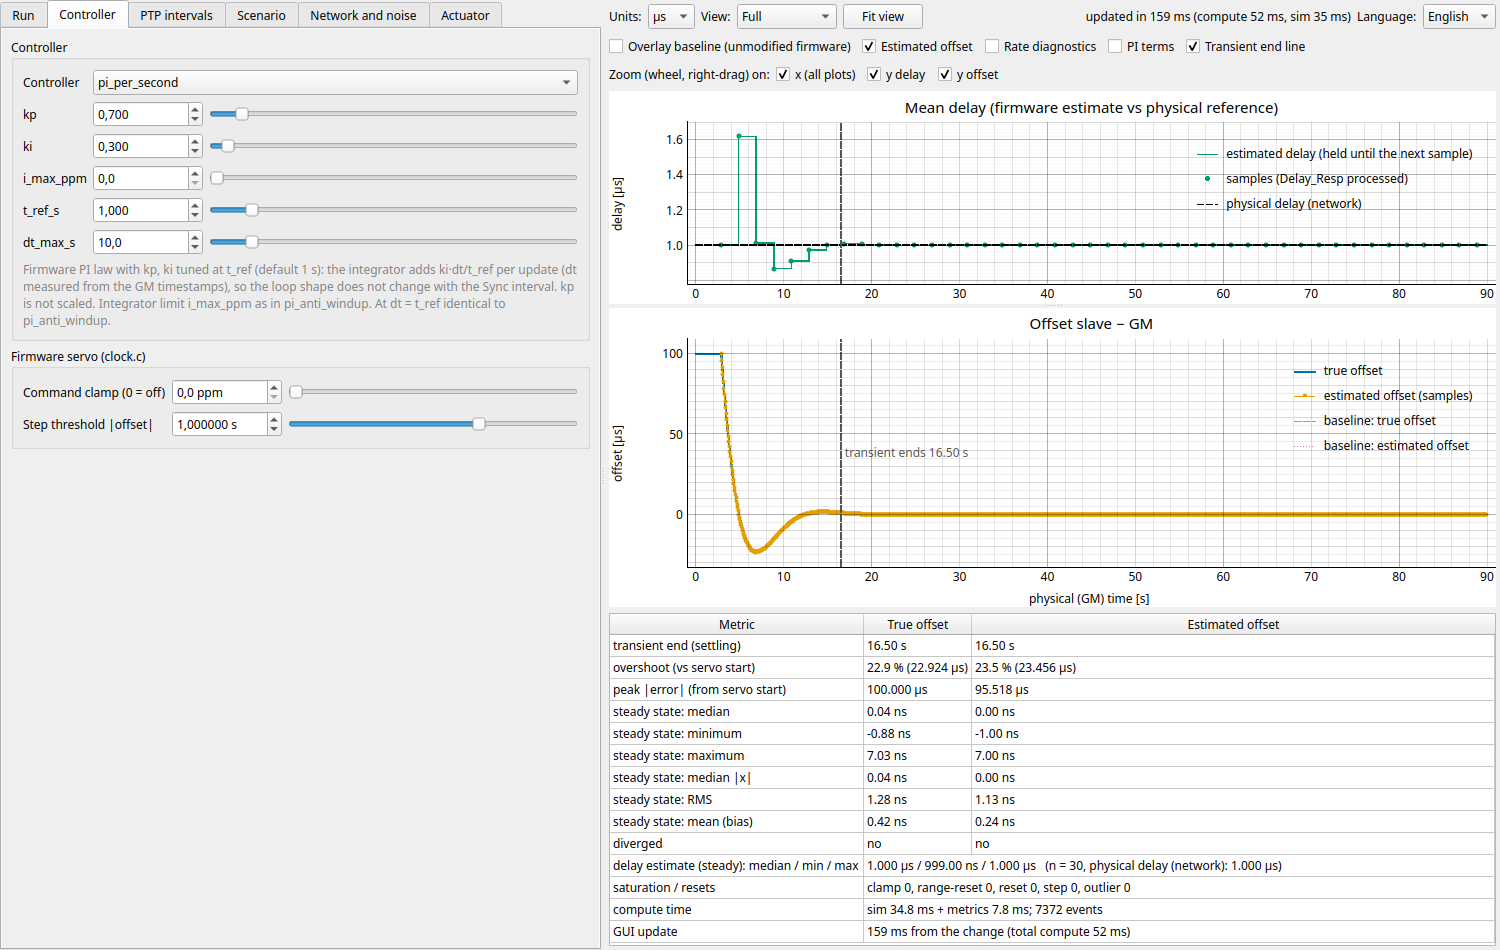
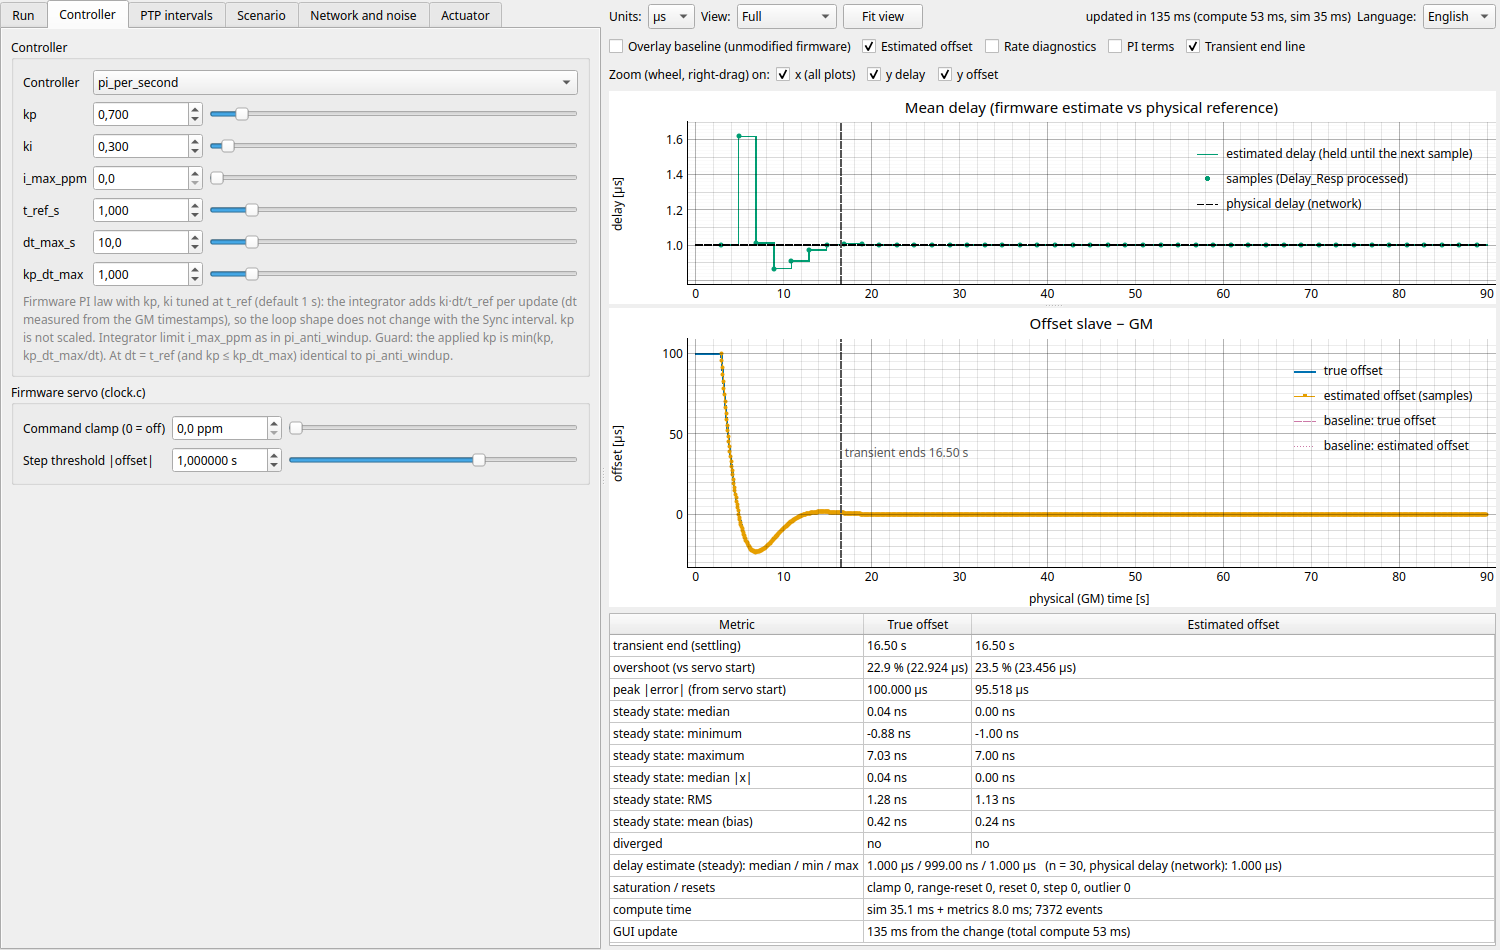
pi_per_second: guard on kp*dt (kp_eff = min(kp, kp_dt_max/dt)); docs with the measured effect

Changed region(s): [[0.0, 0.2747, 0.3987, 0.4884]]

diff --git a/tests/test_servo_options.py b/tests/test_servo_options.py
@@ -1,6 +1,8 @@
 # SPDX-License-Identifier: Apache-2.0
 """Experimental servo options: command clamp, configurable step threshold, anti-windup PI,
 P/I terms recording and the unmodified-firmware overlay."""
+from pathlib import Path
+
 import numpy as np
 import pytest
 
@@ -192,6 +194,54 @@ def test_per_second_pi_scales_only_the_integral_gain_with_the_measured_interval(
     c.set_params({"dt_max_s": 2.0})
     c.update(ServoSample(offset_ns=-1000, sync_interval_s=900.0, nominal_interval_s=0.25, index=3))
     assert c.ki_eff == pytest.approx(0.3 * 2.0)
+
+
+def test_per_second_pi_caps_kp_so_that_kp_times_dt_stays_below_kp_dt_max():
+    from ptpsim.controllers import PIPerSecond, ServoSample
+
+    def kp_eff(dt, **kw):
+        c = PIPerSecond(kp=1.6, ki=0.3, **kw)
+        out = c.update(ServoSample(offset_ns=-1000, sync_interval_s=dt, nominal_interval_s=dt, index=0))
+        assert out == pytest.approx(c.kp_eff * 1000 + c.integral)       # the output uses the applied gain
+        return c.kp_eff
+
+    assert kp_eff(0.25) == pytest.approx(1.6)                             # 0.4 <= 1: untouched
+    assert kp_eff(1.0) == pytest.approx(1.0)                              # 1.6 > 1: capped
+    assert kp_eff(2.0) == pytest.approx(0.5)
+    assert kp_eff(0.625) == pytest.approx(1.6) and kp_eff(1.0, kp_dt_max=2.0) == pytest.approx(1.6)
+    assert kp_eff(2.0, kp_dt_max=0.0) == pytest.approx(1.6)               # 0 = off
+    # the guard acts on the clamped measured interval (dt_max_s), not on a huge gap
+    assert kp_eff(900.0, dt_max_s=4.0) == pytest.approx(0.25)
+    # kp <= kp_dt_max at dt == t_ref: the law is the firmware one (also covered by the bit-identity test)
+    assert PIPerSecond(kp=0.7, ki=0.3).update(
+        ServoSample(offset_ns=-1.0, sync_interval_s=1.0, nominal_interval_s=1.0, index=0)) == pytest.approx(0.7 + 0.3)
+
+
+def test_per_second_pi_bumpless_transfer_uses_the_guarded_gain():
+    from ptpsim.controllers import PIPerSecond, ServoSample
+    c = PIPerSecond(kp=0.5, ki=0.3)
+    c.update(ServoSample(offset_ns=-1000, sync_interval_s=2.0, nominal_interval_s=2.0, index=0))
+    last_out = c.last_output
+    c.set_params({"kp": 1.6}, "bumpless")                                 # guard: min(1.6, 1/2) = 0.5 at 2 s
+    assert c.integral + c._proportional(c.last_error) == pytest.approx(last_out)
+    out = c.update(ServoSample(offset_ns=-1000, sync_interval_s=2.0, nominal_interval_s=2.0, index=1))
+    assert c.kp_eff == pytest.approx(0.5) and out == pytest.approx(c.kp_eff * 1000 + c.integral)
+
+
+def test_kp_guard_helps_at_a_long_sync_interval():
+    """scenario000 at Sync 1 s, kp 1.6 / ki 0.3: unguarded the loop rings for ~1 min, with the cap it settles twice as fast."""
+    from ptpsim.config import SimConfig
+    from ptpsim.metrics import MetricsConfig, compute_metrics
+    base = SimConfig.load(Path(__file__).parent.parent / "configs" / "scenario000.json")
+
+    def settling(kp_dt_max):
+        cfg = base.with_overrides(**{"intervals.sync_log": 0, "controller.params": {
+            **base.controller.params, "kp": 1.6, "ki": 0.3, "kp_dt_max": kp_dt_max}})
+        return compute_metrics(simulate(cfg), MetricsConfig(band_ns=1000.0))["true_offset"]["settling_s"]
+
+    guarded, unguarded = settling(1.0), settling(0.0)
+    assert guarded is not None and unguarded is not None
+    assert guarded < 0.6 * unguarded
 
 
 def test_integral_gain_per_second_is_independent_of_the_sync_interval():

diff --git a/ptpsim/controllers.py b/ptpsim/controllers.py
@@ -254,22 +254,43 @@ class PIPerSecond(PIAntiWindup):
     ``dt`` is the interval measured from the GM timestamps (t1 differences), so a lost Sync gives a longer
     step; it is clamped to the absolute ``dt_max_s`` (the first sample after a long gap can be arbitrarily old).
     ``dt_max_s`` must be >= the nominal Sync interval, otherwise regular steps are clamped too.
-    Not handled: the discrete loop is stable only for roughly ``kp * dt < 2``, whatever ``ki`` is
-    (``pi_time_aware`` has a guard for that; this one has none, to stay close to the firmware law).
+
+    Guard on ``kp * dt``: the proportional step per update is ``kp * dt``, and the discrete loop cannot be
+    stable beyond ``kp * dt = 2`` (no-lag model).  The gain actually applied is ``kp_eff = min(kp, kp_dt_max / dt)``
+    (``kp_dt_max = 0``: guard off).  The default 1.0 leaves ``kp * dt <= 1`` untouched (so at ``dt == t_ref_s`` it
+    is bit-identical to ``pi_anti_windup`` for ``kp <= 1``) and caps a larger ``kp`` at long intervals.  It is a
+    necessary condition only: the integral gain and the delay-estimate feedback also limit stability (see
+    docs/model.md), so it does not make every ``kp, ki, dt`` combination stable.
     """
     name = "pi_per_second"
     PARAMS = {**PIAntiWindup.PARAMS,
               "t_ref_s": (1.0, 0.01, 10.0, "interval at which kp, ki are tuned [s]; ki acts as ki*dt/t_ref_s"),
-              "dt_max_s": (10.0, 0.01, 100.0, "measured dt is clamped to this value [s] (>= nominal Sync interval)")}
+              "dt_max_s": (10.0, 0.01, 100.0, "measured dt is clamped to this value [s] (>= nominal Sync interval)"),
+              "kp_dt_max": (1.0, 0.0, 10.0, "guard: kp_eff = min(kp, kp_dt_max / dt); 0 = off")}
 
     @property
     def ki_eff(self) -> float:
         """Per-update integral gain applied at the last update."""
         return self._ki_eff
 
+    @property
+    def kp_eff(self) -> float:
+        """Proportional gain applied at the last update (``kp`` unless the ``kp * dt`` guard cut it)."""
+        return self._kp_eff
+
     def __init__(self, **params):
         super().__init__(**params)
         self._ki_eff = self.params["ki"]
+        self._kp_eff = self.params["kp"]
+        self._dt = self.params["t_ref_s"]            # interval of the last update
+
+    def _kp_for(self, dt: float) -> float:
+        kp_dt_max = self.params["kp_dt_max"]
+        return min(self.params["kp"], kp_dt_max / dt) if kp_dt_max > 0.0 else self.params["kp"]
+
+    def _proportional(self, error: float) -> float:
+        # bumpless transfer after a gain change: P with the *new* gains at the last interval
+        return self._kp_for(self._dt) * error
 
     def update(self, s: ServoSample) -> float:
         e = -float(s.offset_ns)
@@ -277,11 +298,12 @@ class PIPerSecond(PIAntiWindup):
         dt = min(dt, self.params["dt_max_s"])
         pi = self._pi
         self._ki_eff = pi.ki * dt / self.params["t_ref_s"]
+        self._dt, self._kp_eff = dt, self._kp_for(dt)
         pi.integral += self._ki_eff * e
         limit_ppb = self.params["i_max_ppm"] * 1000.0
         if limit_ppb > 0.0 and abs(pi.integral) > limit_ppb:
             pi.integral = math.copysign(limit_ppb, pi.integral)
-        out = pi.kp * e + pi.integral
+        out = self._kp_eff * e + pi.integral
         self.last_error, self.last_output = e, out
         return out
 

diff --git a/ptpsim/gui/i18n.py b/ptpsim/gui/i18n.py
@@ -110,6 +110,9 @@ STRINGS: dict[str, dict] = {
                      "quindi ki/t_ref [s⁻²] non dipende dall'intervallo Sync (kp non viene scalato)"),
     "pd_dt_max_s": _s("measured dt is clamped to this value [s]; keep it ≥ the nominal Sync interval",
                       "il dt misurato è limitato a questo valore [s]; mantienilo ≥ all'intervallo Sync nominale"),
+    "pd_kp_dt_max": _s("guard: the applied kp is min(kp, this / dt) [dimensionless]; 0 = off. Stability needs kp·dt < 2",
+                       "protezione: il kp applicato è min(kp, questo / dt) [adimensionale]; 0 = off. La stabilità "
+                       "richiede kp·dt < 2"),
     "g_fw": _s("Firmware servo (clock.c)", "Servo del firmware (clock.c)"),
     "fw_clamp": _s("Command clamp (0 = off)", "Clamp del comando (0 = off)"),
     "fw_clamp_tip": _s("NOT in the firmware. Saturates the servo command to ± this value before the driver; 0 = firmware "
@@ -312,8 +315,10 @@ STRINGS: dict[str, dict] = {
     "cn_pi_per_second": _s(
         "Firmware PI law with kp, ki tuned at t_ref (default 1 s): the integrator adds ki·dt/t_ref per update (dt measured "
         "from the GM timestamps), so the loop shape does not change with the Sync interval. kp is not scaled. "
-        "Integrator limit i_max_ppm as in pi_anti_windup. At dt = t_ref identical to pi_anti_windup.",
+        "Integrator limit i_max_ppm as in pi_anti_windup. Guard: the applied kp is min(kp, kp_dt_max/dt). At dt = t_ref "
+        "(and kp ≤ kp_dt_max) identical to pi_anti_windup.",
         "Legge del PI firmware con kp, ki tarati a t_ref (default 1 s): l'integratore somma ki·dt/t_ref a ogni aggiornamento "
         "(dt misurato dai timestamp del GM), quindi la forma dell'anello non cambia con l'intervallo Sync. kp non viene "
-        "scalato. Limite integratore i_max_ppm come in pi_anti_windup. A dt = t_ref identico a pi_anti_windup."),
+        "scalato. Limite integratore i_max_ppm come in pi_anti_windup. Protezione: il kp applicato è min(kp, kp_dt_max/dt). "
+        "A dt = t_ref (e kp ≤ kp_dt_max) identico a pi_anti_windup."),
 }

diff --git a/tests/test_gui.py b/tests/test_gui.py
@@ -135,7 +135,7 @@ def test_anti_windup_controller_is_selectable(win):
     assert c.controller.params == {"kp": 0.7, "ki": 0.3, "i_max_ppm": 0.0}
     win.ctrl_combo.setCurrentText("pi_per_second")
     assert win.build_config().controller.params == {"kp": 0.7, "ki": 0.3, "i_max_ppm": 0.0, "t_ref_s": 1.0,
-                                                    "dt_max_s": 10.0}
+                                                    "dt_max_s": 10.0, "kp_dt_max": 1.0}
     win.ctrl_combo.setCurrentText("baseline_pi")
 
 

diff --git a/docs/model.md b/docs/model.md
@@ -99,7 +99,7 @@ residual at 24 MHz.
 | `e` | −offset [ns] | −offset [ns] | −offset [ns] |
 | parameters | `kp` [ppb/ns], `ki` [ppb/ns per update] | `wn` [rad/s], `zeta`; `kp = 2ζ·wn` [s⁻¹], `ki = wn²` [s⁻²] | as baseline + `i_max_ppm` [ppm] (0 = off) |
 | dt | none | measured from consecutive `t1` (GM timestamps), clamped to `dt_max_s` | none |
-| stability | none (Kconfig: tuned for ~1 s) | `wn·dt ≤ wn_ts_max` (0.35 rad): `kp·dt < 2` | as baseline |
+| stability | none (Kconfig: tuned for ~1 s) | `wn·dt ≤ wn_ts_max` (0.35 rad): `kp·dt < 2` | `kp_eff = min(kp, kp_dt_max/dt)` (`kp·dt ≤ 1` by default) |
 | saturation | none: driver rejects → `clock_servo_reset` | clamp ±`sat_ppb` (400 000 ppb) + anti-windup | integrator only (output limited by the servo's command clamp, if on) |
 | output | absolute ppb | absolute ppb | absolute ppb |
 
@@ -110,8 +110,27 @@ not scaled: ppb/ns is already s⁻¹. `ki/t_ref_s` [s⁻²] is thus constant and
 0.64 at 1 s, 0.32 at 250 ms, 0.16 at 62.5 ms. At `dt = t_ref_s` it is bit-identical to `pi_anti_windup`. Measured
 (quiet scenario, 100 µs step, 0 ppm, 0.7 / 0.3, minimum of the true offset after the step; `tests/test_servo_options.py`
 repeats the check): baseline −64.6 µs (62.5 ms), −55.6 (125 ms), −45.9 (250 ms), −35.0 (500 ms), −30.0 (1 s);
-`pi_per_second` −22.9, −22.3, −22.9, −21.1, −30.0 µs. It does **not** guard `kp·dt < 2` (the baseline neither): at
-Sync = 2 s both laws diverge in a 100 µs / 20 ppm scenario (cause not analysed).
+`pi_per_second` −22.9, −22.3, −22.9, −21.1, −30.0 µs. 
+
+Guard on `kp·dt`: the applied gain is `kp_eff = min(kp, kp_dt_max/dt)` (`kp_dt_max` = 1 by default, 0 = off), because
+the discrete loop cannot be stable for `kp·dt ≥ 2` and a fixed `kp` meets that at long Sync intervals. For `kp·dt ≤ 1`
+it changes nothing. Measured on `configs/noisy_seed1.json` (5 seeds, 100 µs step, +20 ppm, `pi_per_second`, Sync 1 s,
+band ±2 µs; seeds settled / median settling / median final RMS):
+
+| kp / ki | guard off | guard on (`kp_dt_max` = 1) |
+|---|---|---|
+| 0.7 / 0.3 | 5/5, 13.1 s, 221 ns | same (kp·dt = 0.7: untouched) |
+| 1.6 / 0.3 | 3/5, 273 s, 647 ns | 5/5, 12.1 s, 290 ns |
+| 1.6 / 0.6 | 1/5, 283 s, 1604 ns | 5/5, 11.3 s, 395 ns |
+| 2.5 / 0.3 | 0/5 (diverges) | 5/5, 12.1 s, 290 ns |
+| 1.6 / 1.0 | 0/5 (diverges) | 3/5, 197 s, 595 ns |
+
+So the guard removes the divergence caused by a large `kp`, but it is only necessary: with a large `ki` the loop still
+rings at 1 s (last row). At Sync = 2 s the loop rings or diverges for every `kp·dt` tried (0.5-1.6, `ki` = 0.3,
+`i_max_ppm` = 0): quiet `scenario000` settles only for `kp·dt` ≤ 0.7 (overshoot 70-90 %, 37-114 s at ±1 µs) and never
+beyond, and on the noisy seeds 4/5 settle at `kp·dt` = 0.5 and none from 0.9. In a 2 s noisy run the offset estimate alternates in sign at every update and the
+delay estimate swings by ±70 µs (true delay: 1 µs); the mechanism (delay estimated from `t2`/`t3` taken across a rate
+change) is consistent with the closed-loop model but has not been isolated, so no cause is claimed.
 
 All feed the same firmware servo state machine (lock, outlier rejection, step, reset). With `i_max_ppm = 0`
 `pi_anti_windup` is bit-identical to `baseline_pi`; `i_max` must exceed the steady frequency correction, otherwise

diff --git a/README.md b/README.md
@@ -48,7 +48,7 @@ at Sync 62.5 ms, 100 µs step: undershoot 22.9 µs against 64.6 µs.*
 |---|---|
 | `ptpsim/engine.py` | discrete-event engine: GM, network, slave firmware model, slave clock, results |
 | `ptpsim/fwport.py` | bit-faithful ports of the PI, ppb→scaled-ppm→ratio, NXP `find_correction`, ENET timer model |
-| `ptpsim/controllers.py` | controller interface, **baseline_pi** (firmware PI), **pi_time_aware** (variant), **pi_anti_windup** (firmware PI + integrator limit), **pi_per_second** (same, `ki` scaled by the Sync interval) |
+| `ptpsim/controllers.py` | controller interface, **baseline_pi** (firmware PI), **pi_time_aware** (variant), **pi_anti_windup** (firmware PI + integrator limit), **pi_per_second** (same, `ki` scaled by the Sync interval, `kp·dt` guard) |
 | `ptpsim/actuators.py`, `clock.py` | ideal / NXP actuators; piecewise-linear slave clock |
 | `ptpsim/rng.py` | disturbance streams indexed by message sequence number (reproducible seeds) |
 | `ptpsim/metrics.py`, `export.py`, `compare.py`, `analysis.py`, `cli.py` | metrics, CSV/JSON export, comparison, analytic loop model, CLI |
@@ -216,7 +216,7 @@ RMS and bias on a configurable final window, saturation/reset counters, divergen
 | PR #121108 ztest cases (ATCOR = period−1, closer neighbour, sweeps) | ported in the same file | ✔ verified |
 | Closed loop = analytic recursion | exact-delay run vs recursion, < 1e-3 ns | ✔ verified |
 | Identical clocks, offset only, frequency error, phase continuity, t2/t3 before FUP/Resp, pairing, rate change between t2 and t3, ordering, asymmetry bias, saturation/anti-windup, interval changes, 1e6 s precision, jitter distribution/seeds | `tests/test_engine.py`, `tests/test_units.py` | ✔ verified |
-| Command clamp (off = firmware, NaN not clamped, exact at the actuator limit), step threshold, `pi_anti_windup` (0 = baseline bit-identical, windup bound, residual below the steady correction), `pi_per_second` (bit-identical at `dt = t_ref`, `ki/dt` constant, damping independent of the Sync interval), P/I recording, unmodified-firmware overlay | `tests/test_servo_options.py` | ✔ verified (model only) |
+| Command clamp (off = firmware, NaN not clamped, exact at the actuator limit), step threshold, `pi_anti_windup` (0 = baseline bit-identical, windup bound, residual below the steady correction), `pi_per_second` (bit-identical at `dt = t_ref`, `ki/dt` constant, damping independent of the Sync interval, `kp·dt` guard), P/I recording, unmodified-firmware overlay | `tests/test_servo_options.py` | ✔ verified (model only) |
 | Baseline vs **hardware** | no real logs available | ✘ **not validated** |
 | Log importer / replay | needs the real instrumentation format (not in any branch) | ✘ not implemented |
 

diff --git a/docs/manual.it.md b/docs/manual.it.md
@@ -118,7 +118,7 @@ ultime due colonne — il comando accettato dal driver `cmd_applied_ppb` (dopo i
 ### 3.2 Scheda "Controllore"
 
 ![Scheda Controllore con pi_per_second](img/gui_controller_it.png)
-*Scheda Controllore con `pi_per_second`: i guadagni `kp`, `ki` tarati a `t_ref_s` (1 s), il limite dell'integratore e `dt_max_s`, la descrizione della legge scelta e il gruppo "Servo del firmware".*
+*Scheda Controllore con `pi_per_second`: i guadagni `kp`, `ki` tarati a `t_ref_s` (1 s), il limite dell'integratore e `dt_max_s`, `kp_dt_max`, la descrizione della legge scelta e il gruppo "Servo del firmware".*
 
 **Controllore** — la legge che comanda il rate del clock. Tutti producono una correzione di frequenza **assoluta** in ppb
 (positivo = più veloce) usando solo l'**offset stimato**.
@@ -145,7 +145,10 @@ ultime due colonne — il comando accettato dal driver `cmd_applied_ppb` (dopo i
   * **dt_max_s** [s]: l'intervallo misurato (da `t1` consecutivi, quindi un Sync perso dà un passo più lungo) è limitato a
     questo valore assoluto (default 10 s). Mantienilo ≥ all'intervallo Sync nominale, altrimenti vengono limitati anche i
     passi regolari. **i_max_ppm** come in `pi_anti_windup`.
-  * Non protetto: `kp·dt < 2` (come nella baseline); con Sync = 2 s la simulazione diverge nello scenario quieto da 100 µs (causa non analizzata).
+  * **kp_dt_max** [adimensionale]: protezione sul passo proporzionale: il guadagno applicato è `kp_eff = min(kp, kp_dt_max/dt)`
+    (default 1; 0 = off). Con `kp·dt ≤ kp_dt_max` non cambia nulla (per esempio l'identità con `pi_anti_windup` a 1 s vale
+    per `kp ≤ 1`); un `kp` più alto viene limitato agli intervalli lunghi. È necessaria, non sufficiente: un **ki** alto o
+    Sync = 2 s possono ancora oscillare o divergere (vedi `docs/model.md`).
 * `pi_anti_windup` — la legge del PI firmware (stessi **kp**, **ki** per aggiornamento, senza dt) con un limite dell'integratore:
   `integrale += ki·e; integrale = clamp(integrale, ±i_max); u = kp·e + integrale`.
   * **i_max_ppm** [ppm]: limite dell'integratore; **0 = off**, e il controllore è allora identico a `baseline_pi`.

diff --git a/docs/manual.en.md b/docs/manual.en.md
@@ -118,7 +118,7 @@ columns — the command accepted by the driver `cmd_applied_ppb` (after the clam
 ### 3.2 Tab "Controller"
 
 ![Controller tab with pi_per_second](img/gui_controller_en.png)
-*Controller tab with `pi_per_second`: the gains `kp`, `ki` tuned at `t_ref_s` (1 s), the integrator limit and `dt_max_s`, the description of the selected law and the "Firmware servo" group.*
+*Controller tab with `pi_per_second`: the gains `kp`, `ki` tuned at `t_ref_s` (1 s), the integrator limit and `dt_max_s`, `kp_dt_max`, the description of the selected law and the "Firmware servo" group.*
 **Controller** — which law drives the clock rate. All of them output an **absolute** frequency correction in ppb
 (positive = faster) from the **estimated offset** only.
 
@@ -144,7 +144,10 @@ columns — the command accepted by the driver `cmd_applied_ppb` (after the clam
   * **dt_max_s** [s]: the measured interval (from consecutive `t1`, so a lost Sync gives a longer step) is clamped to
     this absolute value (default 10 s). Keep it ≥ the nominal Sync interval, or regular steps are clamped too.
     **i_max_ppm** as in `pi_anti_windup`.
-  * Not guarded: `kp·dt < 2` (as in the baseline); at Sync = 2 s the run diverges in the quiet 100 µs scenario (cause not analysed).
+  * **kp_dt_max** [dimensionless]: guard on the proportional step: the applied gain is `kp_eff = min(kp, kp_dt_max/dt)`
+    (default 1; 0 = off). With `kp·dt ≤ kp_dt_max` nothing changes (e.g. the identity with `pi_anti_windup` at 1 s holds for
+    `kp ≤ 1`); a larger `kp` is capped at long intervals. It is necessary, not sufficient: a large **ki** or Sync = 2 s can
+    still ring or diverge (see `docs/model.md`).
 * `pi_anti_windup` — the firmware PI law (same per-update **kp**, **ki**, no dt) with an integrator limit:
   `integral += ki·e; integral = clamp(integral, ±i_max); u = kp·e + integral`.
   * **i_max_ppm** [ppm]: integrator limit; **0 = off**, and the controller is then identical to `baseline_pi`.
